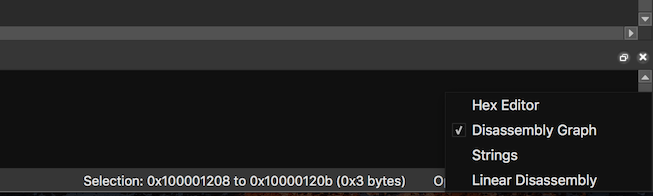
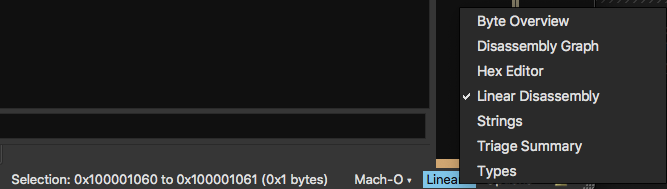
Miscellaneous getting started guide updates.

diff --git a/docs/getting-started.md b/docs/getting-started.md
@@ -54,7 +54,7 @@ You can load files in many ways:
 
 ![open with options >](img/open-with-options.png "Open with Options")
 
-1. Drag-and-drop a file onto the Binary Ninja window
+1. Drag-and-drop a file onto the Binary Ninja window (hold `[CMD/CTRL-SHIFT]` while dropping to use the `Open with Options` workflow)
 2. Use the `File/Open` menu or `Open` button on the start screen (`[CMD/CTRL] o`)
 3. Use the `File/Open with Options` menu which allows you to customize the analysis options (`[CMD/CTRL-SHIFT] o`)
 4. Open a file from the Triage picker (`File/Open for Triage`) which enables several minimal analysis options and shows a summary view first
@@ -69,13 +69,32 @@ You can load files in many ways:
     * URLs For referencing remote file files either the url should be prefixed with `binaryninja:` and optionally suffixed with the `expr` query parameter
         * `binaryninja:file://<remote_path>?expr=[.data + 400]` - Download the remote file and navigate to the address at `.data` plus `0x400`
 
+## Status Bar
+
+![status bar >](img/status-bar.png "Status Bar")
+
+The status bar provides current information about the open file as well as some interactive controls. Summary features are listed below:
+
+* Update Notification - perform updates, download status, and restart notification
+* Analysis progress - ongoing analysis progress of current active file
+* Cursor offset or selection
+* BinaryView Switcher
+* View Layer Selection - present a layer of analysis information from the BinaryView (e.g. hex, graph, linear, strings, types, etc.)
+* File Contents Lock - interactive control to prevent accidental changes to the underlying file
+
 ## Analysis
 
-![auto analysis >](img/analysis.png "Auto Analysis")
+
 
 As soon as you open a file, Binary Ninja begins its auto-analysis which is fairly similar to decompiling the entire binary.
 
 Even while Binary Ninja is analyzing a binary, the UI should be responsive. Not only that, but because the analysis prioritizes user-requested analysis, you can start navigating a binary immediately and wherever you are viewing will be prioritized for analysis. The current progress through a binary is shown in the status bar (more details are available via `bv.analysis_info` in the Python console), but note that the total number of items left to analyze will go up as well as the binary is processed and more items are discovered that require analysis.
+
+Analysis proceeds through several phases summarized below:
+
+* Phase 1 - Initial Recursive Descent
+* Phase 2 - Call Target Analysis (Part of Linear Sweep)
+* Phase 3.x - Control Flow Graph Analysis (Part of Linear Sweep)
 
 Errors or warnings during the load of the binary are also shown in the status bar, along with an icon (in the case of the image above, a large number of warnings were shown). The most common warnings are from incomplete lifting and can be safely ignored. If the warnings include a message like `Data flow for function at 0x41414141 did not terminate`, then please report the binary to the [bug database](https://github.com/Vector35/binaryninja-api/issues).
 
